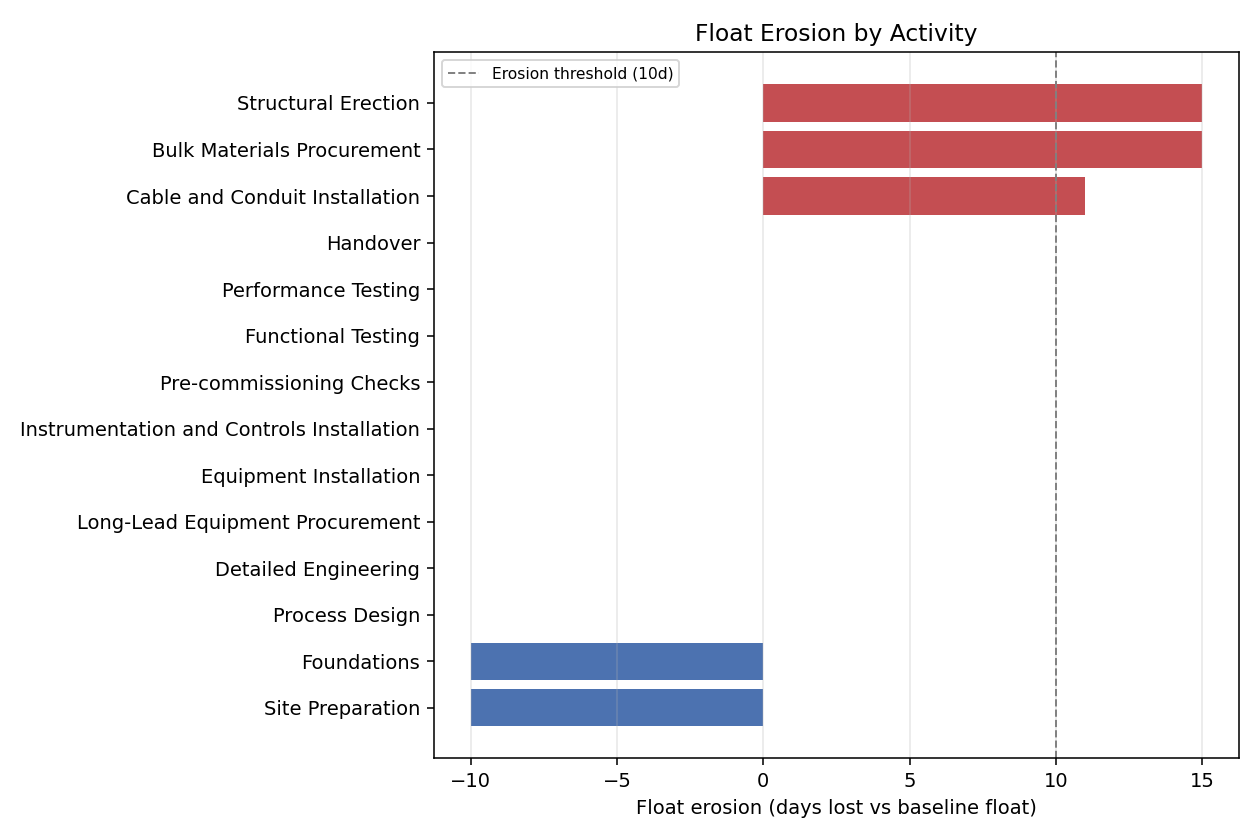
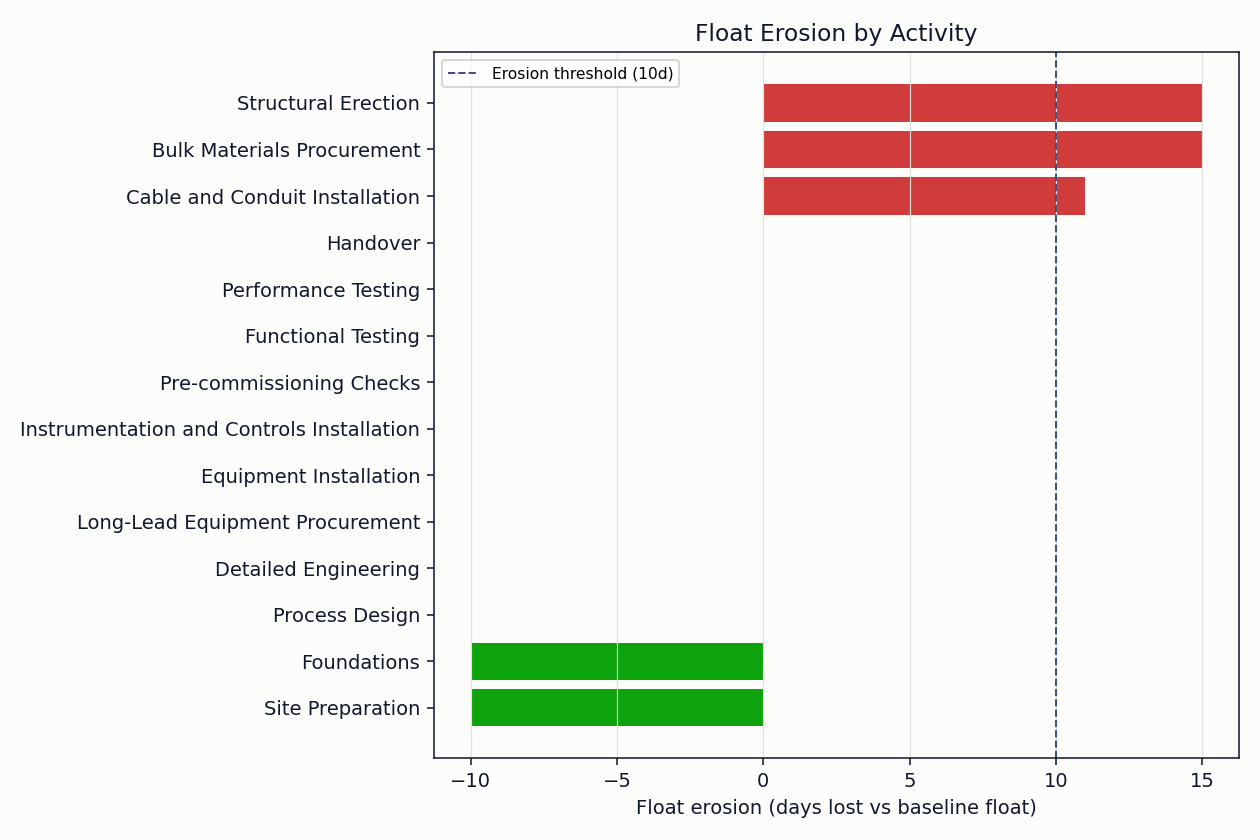
Standardize chart color system across the toolkit

diff --git a/analyzer.py b/analyzer.py
@@ -24,6 +24,32 @@ ASSETS_DIR = os.path.join(os.path.dirname(__file__), "assets")
 
 PROJECT_START = "2026-01-05"
 
+# Standardized chart color system (chart chrome, status scale, baseline/reference)
+CHART_BG = "#fcfcfb"
+INK = "#10182b"
+GRID = "#e1e0d9"
+BASELINE = "#3a4d7a"
+STATUS_GOOD = "#0ca30c"
+STATUS_WARNING = "#fab219"
+STATUS_CRITICAL = "#d03b3b"
+
+
+def _apply_chrome(fig, axes) -> None:
+    """Apply the standardized chart chrome (background, ink, gridlines) to a figure."""
+    fig.patch.set_facecolor(CHART_BG)
+    if hasattr(axes, "flatten"):
+        axes = axes.flatten().tolist()
+    elif not isinstance(axes, (list, tuple)):
+        axes = [axes]
+    for ax in axes:
+        ax.set_facecolor(CHART_BG)
+        ax.title.set_color(INK)
+        ax.xaxis.label.set_color(INK)
+        ax.yaxis.label.set_color(INK)
+        ax.tick_params(colors=INK)
+        for spine in ax.spines.values():
+            spine.set_color(INK)
+
 
 def status_tag(row) -> str:
     if row["status"] == "Complete":
@@ -124,13 +150,13 @@ def write_report_markdown(comparison, score, baseline_finish, current_finish) ->
 
 def chart_baseline_vs_current(comparison) -> None:
     fig, ax = plt.subplots(figsize=(10, 7))
-    colors = {"CRITICAL": "#C44E52", "near-critical": "#DD8452", "ok": "#55A868"}
+    colors = {"CRITICAL": STATUS_CRITICAL, "near-critical": STATUS_WARNING, "ok": STATUS_GOOD}
     for i, row in enumerate(comparison.itertuples()):
         b_start = mdates.date2num(row.baseline_start)
         b_width = mdates.date2num(row.baseline_finish) - b_start
         c_start = mdates.date2num(row.current_start)
         c_width = mdates.date2num(row.current_finish) - c_start
-        ax.barh(i - 0.15, b_width, left=b_start, height=0.3, color="#B0B0B0")
+        ax.barh(i - 0.15, b_width, left=b_start, height=0.3, color=BASELINE)
         tag = criticality_tag(row._asdict())
         ax.barh(i + 0.15, c_width, left=c_start, height=0.3, color=colors[tag])
 
@@ -138,31 +164,33 @@ def chart_baseline_vs_current(comparison) -> None:
     ax.set_yticklabels(comparison["activity_name"], fontsize=8)
     ax.invert_yaxis()
     ax.xaxis_date()
-    ax.set_title("Baseline (gray) vs Current Schedule, by criticality")
-    handles = [plt.Rectangle((0, 0), 1, 1, color="#B0B0B0", label="Baseline")]
+    ax.set_title("Baseline vs Current Schedule, by criticality")
+    handles = [plt.Rectangle((0, 0), 1, 1, color=BASELINE, label="Baseline")]
     handles += [plt.Rectangle((0, 0), 1, 1, color=c, label=k) for k, c in colors.items()]
     ax.legend(handles=handles, loc="lower right", fontsize=8)
-    ax.grid(alpha=0.3, axis="x")
+    ax.grid(color=GRID, linewidth=0.6, axis="x")
+    _apply_chrome(fig, ax)
     fig.autofmt_xdate()
     fig.tight_layout()
-    fig.savefig(os.path.join(ASSETS_DIR, "baseline_vs_current.png"), dpi=140)
+    fig.savefig(os.path.join(ASSETS_DIR, "baseline_vs_current.png"), dpi=140, facecolor=CHART_BG)
     plt.close(fig)
 
 
 def chart_float_erosion(comparison) -> None:
     ranked = comparison.sort_values("float_erosion", ascending=True)
-    colors = ["#C44E52" if v >= metrics.EROSION_THRESHOLD_DAYS else "#4C72B0"
+    colors = [STATUS_CRITICAL if v >= metrics.EROSION_THRESHOLD_DAYS else STATUS_GOOD
               for v in ranked["float_erosion"]]
     fig, ax = plt.subplots(figsize=(9, 6))
     ax.barh(ranked["activity_name"], ranked["float_erosion"], color=colors)
-    ax.axvline(metrics.EROSION_THRESHOLD_DAYS, color="gray", linestyle="--", linewidth=1,
+    ax.axvline(metrics.EROSION_THRESHOLD_DAYS, color=BASELINE, linestyle="--", linewidth=1,
                label=f"Erosion threshold ({metrics.EROSION_THRESHOLD_DAYS}d)")
     ax.set_xlabel("Float erosion (days lost vs baseline float)")
     ax.set_title("Float Erosion by Activity")
     ax.legend(fontsize=8)
-    ax.grid(alpha=0.3, axis="x")
+    ax.grid(color=GRID, linewidth=0.6, axis="x")
+    _apply_chrome(fig, ax)
     fig.tight_layout()
-    fig.savefig(os.path.join(ASSETS_DIR, "float_erosion.png"), dpi=140)
+    fig.savefig(os.path.join(ASSETS_DIR, "float_erosion.png"), dpi=140, facecolor=CHART_BG)
     plt.close(fig)
 
 
